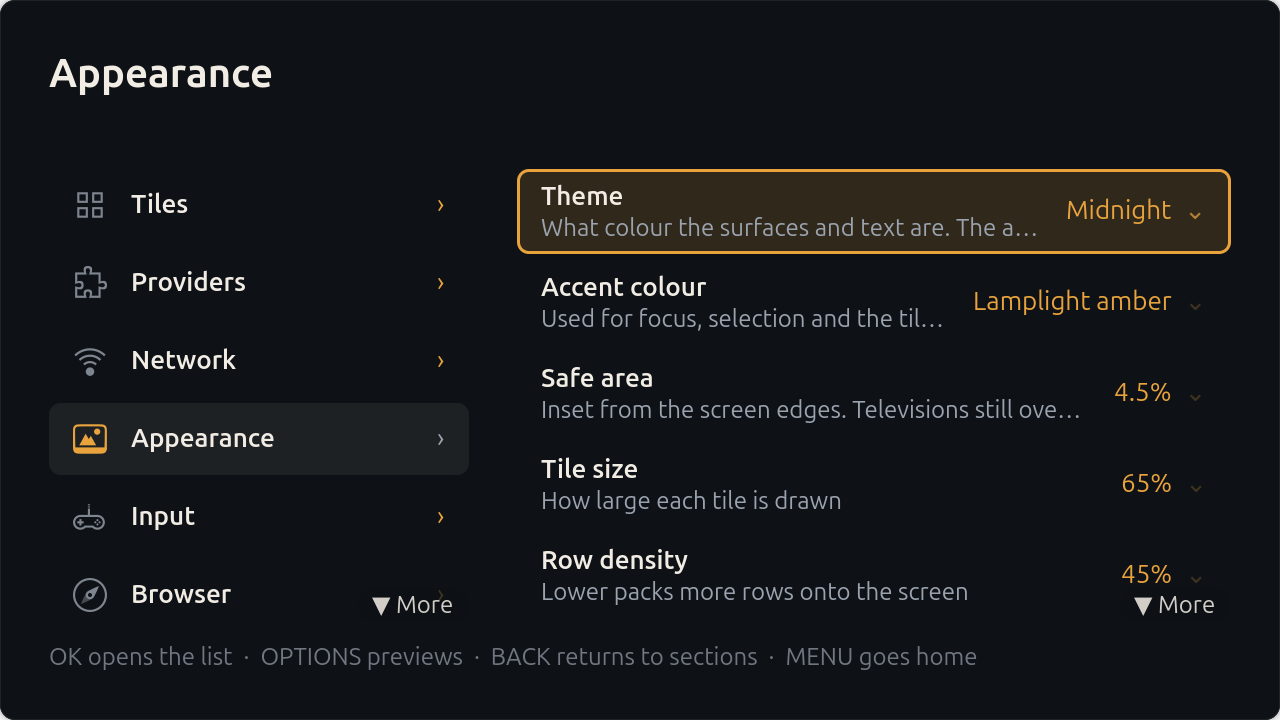
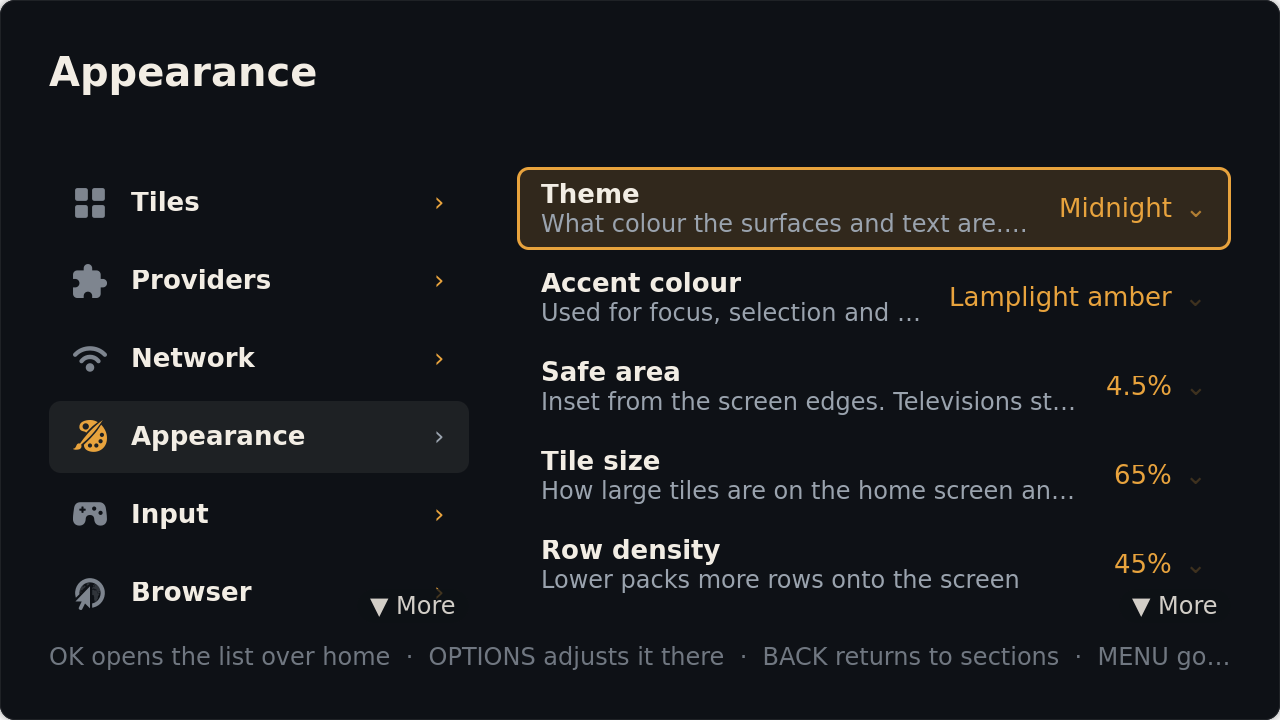
Release 0.3.3

diff --git a/tests/test_release_preparation.py b/tests/test_release_preparation.py
@@ -21,29 +21,29 @@ def run_script(*arguments: str) -> subprocess.CompletedProcess[str]:
 def test_release_versions_are_consistent() -> None:
     result = run_script()
     assert result.returncode == 0, result.stderr
-    assert "Salon 0.3.2" in result.stdout
+    assert "Salon 0.3.3" in result.stdout
 
 
 def test_debian_changelog_matches_project_version() -> None:
     changelog = (ROOT / "debian" / "changelog").read_text()
-    assert changelog.startswith("salon (0.3.2-1) ")
+    assert changelog.startswith("salon (0.3.3-1) ")
 
 
 def test_release_tag_must_match_project_version() -> None:
     result = run_script("--tag", "v9.9.9")
     assert result.returncode == 1
-    assert "expected 'v0.3.2'" in result.stderr
+    assert "expected 'v0.3.3'" in result.stderr
 
 
 def test_prepared_manifest_pins_the_release_commit(tmp_path: Path) -> None:
     output = tmp_path / "manifest.yaml"
     commit = "0123456789abcdef0123456789abcdef01234567"
     result = run_script(
-        "--tag", "v0.3.2", "--commit", commit, "--output", str(output)
+        "--tag", "v0.3.3", "--commit", commit, "--output", str(output)
     )
     assert result.returncode == 0, result.stderr
 
     manifest = output.read_text()
     source = "url: https://github.com/alexydaher/salon.git"
     salon_source = manifest[manifest.index(source) :]
-    assert f"tag: v0.3.2\n        commit: {commit}\n" in salon_source
+    assert f"tag: v0.3.3\n        commit: {commit}\n" in salon_source

diff --git a/README.md b/README.md
@@ -24,16 +24,16 @@ Then launch **Salon** from your applications screen, or
 `flatpak run io.github.alexydaher.Salon`.
 
 **Debian package — adds the login-screen sessions.** Download
-`salon_0.3.2-1_all.deb` from the [latest release][latest-release] and let APT
+`salon_0.3.3-1_all.deb` from the [latest release][latest-release] and let APT
 resolve the dependencies:
 
 ```sh
-sudo apt install ~/Downloads/salon_0.3.2-1_all.deb
+sudo apt install ~/Downloads/salon_0.3.3-1_all.deb
 ```
 
 It is `Architecture: all` and works on both AMD64 and ARM64.
 
-**Offline Flatpak bundle.** `Salon-v0.3.2-x86_64.flatpak` or
+**Offline Flatpak bundle.** `Salon-v0.3.3-x86_64.flatpak` or
 `-aarch64.flatpak` from the [latest release][latest-release] — run `uname -m`
 if you are unsure which:
 
